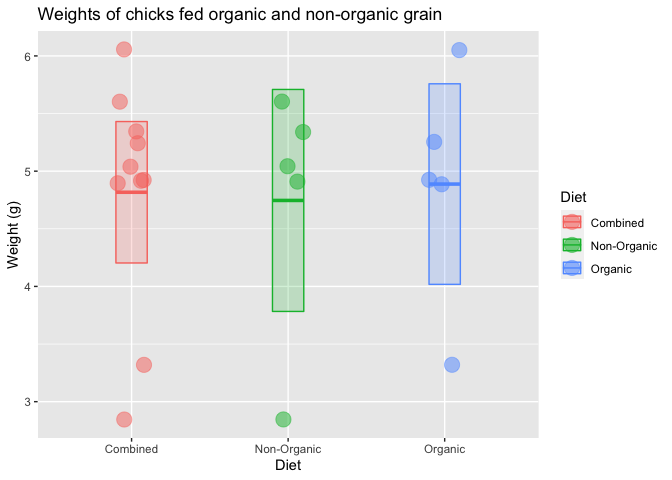
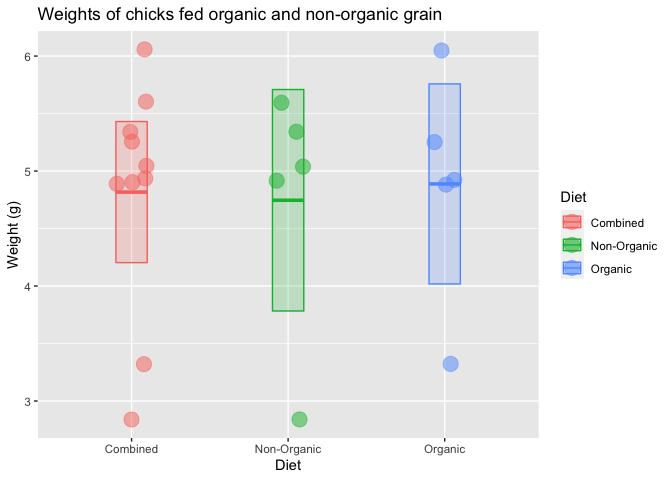
Update

diff --git a/README.md b/README.md
@@ -1,7 +1,7 @@
 Lab 2: Introduction to RStudio
 ================
 Jonathan Kanyinda
-2021-01-19
+2021-01-21
 
 > INSTRUCTIONS: REMOVE THIS LINE AND REPLACE \_\_\_\_ WITH YOUR OWN TEXT
 
@@ -21,7 +21,7 @@ The objectives of this lab are:
 The repository contains the following scripts:
 
   - [calculator.R](calculator.R)
-  - [calculator.Rmd](calculator.Rmd)
+  - [Lab 2 Report](assignmentmd)
 
 ## Instructions for knitting
 
@@ -44,126 +44,3 @@ Here is a list of resources for helping you write R Markdown documents:
     Reference**
   - [Basic Syntax](https://www.markdownguide.org/basic-syntax/) on the
     Markdown Guide website
-
-## Session Info
-
-Here is my session
-    information:
-
-``` r
-sessioninfo::session_info(c("tidyverse"))
-```
-
-    ## ─ Session info ───────────────────────────────────────────────────────────────
-    ##  setting  value                       
-    ##  version  R version 4.0.3 (2020-10-10)
-    ##  os       macOS Catalina 10.15.4      
-    ##  system   x86_64, darwin17.0          
-    ##  ui       X11                         
-    ##  language (EN)                        
-    ##  collate  en_US.UTF-8                 
-    ##  ctype    en_US.UTF-8                 
-    ##  tz       America/Chicago             
-    ##  date     2021-01-19                  
-    ## 
-    ## ─ Packages ───────────────────────────────────────────────────────────────────
-    ##  package      * version  date       lib source        
-    ##  askpass        1.1      2019-01-13 [1] CRAN (R 4.0.2)
-    ##  assertthat     0.2.1    2019-03-21 [1] CRAN (R 4.0.2)
-    ##  backports      1.2.1    2020-12-09 [1] CRAN (R 4.0.2)
-    ##  base64enc      0.1-3    2015-07-28 [1] CRAN (R 4.0.2)
-    ##  BH             1.75.0-0 2021-01-11 [1] CRAN (R 4.0.2)
-    ##  blob           1.2.1    2020-01-20 [1] CRAN (R 4.0.2)
-    ##  brio           1.1.0    2020-08-31 [1] CRAN (R 4.0.2)
-    ##  broom          0.7.3    2020-12-16 [1] CRAN (R 4.0.2)
-    ##  callr          3.5.1    2020-10-13 [1] CRAN (R 4.0.2)
-    ##  cellranger     1.1.0    2016-07-27 [1] CRAN (R 4.0.2)
-    ##  cli            2.2.0    2020-11-20 [1] CRAN (R 4.0.2)
-    ##  clipr          0.7.1    2020-10-08 [1] CRAN (R 4.0.2)
-    ##  colorspace     2.0-0    2020-11-11 [1] CRAN (R 4.0.2)
-    ##  cpp11          0.2.5    2021-01-12 [1] CRAN (R 4.0.2)
-    ##  crayon         1.3.4    2017-09-16 [1] CRAN (R 4.0.2)
-    ##  curl           4.3      2019-12-02 [1] CRAN (R 4.0.1)
-    ##  DBI            1.1.1    2021-01-15 [1] CRAN (R 4.0.3)
-    ##  dbplyr         2.0.0    2020-11-03 [1] CRAN (R 4.0.2)
-    ##  desc           1.2.0    2018-05-01 [1] CRAN (R 4.0.2)
-    ##  diffobj        0.3.3    2021-01-07 [1] CRAN (R 4.0.2)
-    ##  digest         0.6.27   2020-10-24 [1] CRAN (R 4.0.2)
-    ##  dplyr          1.0.2    2020-08-18 [1] CRAN (R 4.0.2)
-    ##  ellipsis       0.3.1    2020-05-15 [1] CRAN (R 4.0.2)
-    ##  evaluate       0.14     2019-05-28 [1] CRAN (R 4.0.1)
-    ##  fansi          0.4.1    2020-01-08 [1] CRAN (R 4.0.2)
-    ##  farver         2.0.3    2020-01-16 [1] CRAN (R 4.0.2)
-    ##  forcats        0.5.0    2020-03-01 [1] CRAN (R 4.0.2)
-    ##  fs             1.5.0    2020-07-31 [1] CRAN (R 4.0.2)
-    ##  generics       0.1.0    2020-10-31 [1] CRAN (R 4.0.2)
-    ##  ggplot2        3.3.3    2020-12-30 [1] CRAN (R 4.0.2)
-    ##  glue           1.4.2    2020-08-27 [1] CRAN (R 4.0.2)
-    ##  gtable         0.3.0    2019-03-25 [1] CRAN (R 4.0.2)
-    ##  haven          2.3.1    2020-06-01 [1] CRAN (R 4.0.2)
-    ##  highr          0.8      2019-03-20 [1] CRAN (R 4.0.2)
-    ##  hms            1.0.0    2021-01-13 [1] CRAN (R 4.0.2)
-    ##  htmltools      0.5.1    2021-01-12 [1] CRAN (R 4.0.2)
-    ##  httr           1.4.2    2020-07-20 [1] CRAN (R 4.0.2)
-    ##  isoband        0.2.3    2020-12-01 [1] CRAN (R 4.0.2)
-    ##  jsonlite       1.7.2    2020-12-09 [1] CRAN (R 4.0.2)
-    ##  knitr          1.30     2020-09-22 [1] CRAN (R 4.0.2)
-    ##  labeling       0.4.2    2020-10-20 [1] CRAN (R 4.0.2)
-    ##  lattice        0.20-41  2020-04-02 [1] CRAN (R 4.0.3)
-    ##  lifecycle      0.2.0    2020-03-06 [1] CRAN (R 4.0.2)
-    ##  lubridate      1.7.9.2  2020-11-13 [1] CRAN (R 4.0.2)
-    ##  magrittr       2.0.1    2020-11-17 [1] CRAN (R 4.0.2)
-    ##  markdown       1.1      2019-08-07 [1] CRAN (R 4.0.2)
-    ##  MASS           7.3-53   2020-09-09 [1] CRAN (R 4.0.3)
-    ##  Matrix         1.2-18   2019-11-27 [1] CRAN (R 4.0.3)
-    ##  mgcv           1.8-33   2020-08-27 [1] CRAN (R 4.0.3)
-    ##  mime           0.9      2020-02-04 [1] CRAN (R 4.0.2)
-    ##  modelr         0.1.8    2020-05-19 [1] CRAN (R 4.0.2)
-    ##  munsell        0.5.0    2018-06-12 [1] CRAN (R 4.0.2)
-    ##  nlme           3.1-149  2020-08-23 [1] CRAN (R 4.0.3)
-    ##  openssl        1.4.3    2020-09-18 [1] CRAN (R 4.0.2)
-    ##  pillar         1.4.7    2020-11-20 [1] CRAN (R 4.0.2)
-    ##  pkgbuild       1.2.0    2020-12-15 [1] CRAN (R 4.0.2)
-    ##  pkgconfig      2.0.3    2019-09-22 [1] CRAN (R 4.0.2)
-    ##  pkgload        1.1.0    2020-05-29 [1] CRAN (R 4.0.2)
-    ##  praise         1.0.0    2015-08-11 [1] CRAN (R 4.0.2)
-    ##  prettyunits    1.1.1    2020-01-24 [1] CRAN (R 4.0.2)
-    ##  processx       3.4.5    2020-11-30 [1] CRAN (R 4.0.2)
-    ##  progress       1.2.2    2019-05-16 [1] CRAN (R 4.0.2)
-    ##  ps             1.5.0    2020-12-05 [1] CRAN (R 4.0.2)
-    ##  purrr          0.3.4    2020-04-17 [1] CRAN (R 4.0.2)
-    ##  R6             2.5.0    2020-10-28 [1] CRAN (R 4.0.2)
-    ##  RColorBrewer   1.1-2    2014-12-07 [1] CRAN (R 4.0.2)
-    ##  Rcpp           1.0.5    2020-07-06 [1] CRAN (R 4.0.2)
-    ##  readr          1.4.0    2020-10-05 [1] CRAN (R 4.0.2)
-    ##  readxl         1.3.1    2019-03-13 [1] CRAN (R 4.0.2)
-    ##  rematch        1.0.1    2016-04-21 [1] CRAN (R 4.0.2)
-    ##  rematch2       2.1.2    2020-05-01 [1] CRAN (R 4.0.2)
-    ##  reprex         0.3.0    2019-05-16 [1] CRAN (R 4.0.2)
-    ##  rlang          0.4.10   2020-12-30 [1] CRAN (R 4.0.2)
-    ##  rmarkdown      2.6      2020-12-14 [1] CRAN (R 4.0.2)
-    ##  rprojroot      2.0.2    2020-11-15 [1] CRAN (R 4.0.2)
-    ##  rstudioapi     0.13     2020-11-12 [1] CRAN (R 4.0.2)
-    ##  rvest          0.3.6    2020-07-25 [1] CRAN (R 4.0.2)
-    ##  scales         1.1.1    2020-05-11 [1] CRAN (R 4.0.2)
-    ##  selectr        0.4-2    2019-11-20 [1] CRAN (R 4.0.2)
-    ##  stringi        1.5.3    2020-09-09 [1] CRAN (R 4.0.2)
-    ##  stringr        1.4.0    2019-02-10 [1] CRAN (R 4.0.2)
-    ##  sys            3.4      2020-07-23 [1] CRAN (R 4.0.2)
-    ##  testthat       3.0.1    2020-12-17 [1] CRAN (R 4.0.2)
-    ##  tibble         3.0.4    2020-10-12 [1] CRAN (R 4.0.2)
-    ##  tidyr          1.1.2    2020-08-27 [1] CRAN (R 4.0.2)
-    ##  tidyselect     1.1.0    2020-05-11 [1] CRAN (R 4.0.2)
-    ##  tidyverse      1.3.0    2019-11-21 [1] CRAN (R 4.0.2)
-    ##  tinytex        0.28     2020-12-14 [1] CRAN (R 4.0.2)
-    ##  utf8           1.1.4    2018-05-24 [1] CRAN (R 4.0.2)
-    ##  vctrs          0.3.6    2020-12-17 [1] CRAN (R 4.0.2)
-    ##  viridisLite    0.3.0    2018-02-01 [1] CRAN (R 4.0.1)
-    ##  waldo          0.2.3    2020-11-09 [1] CRAN (R 4.0.2)
-    ##  whisker        0.4      2019-08-28 [1] CRAN (R 4.0.2)
-    ##  withr          2.4.0    2021-01-16 [1] CRAN (R 4.0.3)
-    ##  xfun           0.20     2021-01-06 [1] CRAN (R 4.0.2)
-    ##  xml2           1.3.2    2020-04-23 [1] CRAN (R 4.0.2)
-    ##  yaml           2.2.1    2020-02-01 [1] CRAN (R 4.0.2)
-    ## 
-    ## [1] /Library/Frameworks/R.framework/Versions/4.0/Resources/library

diff --git a/assignment.md b/assignment.md
@@ -1,7 +1,7 @@
 Lab 2 Assignment
 ================
 Jonathan Kanyinda
-2021-01-19
+2021-01-21
 
 ## Instructions
 
@@ -59,7 +59,7 @@ sem <- sd(k) / sqrt(n)
 ```
 
 And finally, I can see the 95% confidence interval ranges from a minimum
-of — to a maximum of \_\_\_
+of 4.203409 to a maximum of 5.430591
 
 ``` r
 mean(k) + 1.96 * sem 
@@ -108,16 +108,11 @@ library(tidyverse)
     ## x dplyr::lag()    masks stats::lag()
 
 ``` r
-# check to make sure you did the part above correctly
-# if not, generate some fake x data
-x<-k
-if (!exists("x") | !is.numeric(x) | !length(x) == 10) x <- rep(1, 10)
-
 # put the chick data into a data frame
 chick_data <-
   tibble::tibble(
     diet = rep(c("Combined", "Combined", "Organic", "Non-Organic"), each = 5),
-    weight = c(x, x)
+    weight = c(k, k)
   )
 
 # summarize the chick weights by diet
@@ -153,3 +148,87 @@ ggplot(chick_data, aes(x = diet, y = weight, color = diet, fill = diet)) +
 ```
 
 ![](assignment_files/figure-gfm/unnamed-chunk-1-1.png)<!-- -->
+
+## Session Info
+
+Here is my session
+    information:
+
+``` r
+sessioninfo::session_info()
+```
+
+    ## ─ Session info ───────────────────────────────────────────────────────────────
+    ##  setting  value                       
+    ##  version  R version 4.0.3 (2020-10-10)
+    ##  os       macOS Catalina 10.15.4      
+    ##  system   x86_64, darwin17.0          
+    ##  ui       X11                         
+    ##  language (EN)                        
+    ##  collate  en_US.UTF-8                 
+    ##  ctype    en_US.UTF-8                 
+    ##  tz       America/Chicago             
+    ##  date     2021-01-21                  
+    ## 
+    ## ─ Packages ───────────────────────────────────────────────────────────────────
+    ##  package     * version date       lib source        
+    ##  assertthat    0.2.1   2019-03-21 [1] CRAN (R 4.0.2)
+    ##  backports     1.2.1   2020-12-09 [1] CRAN (R 4.0.2)
+    ##  broom         0.7.3   2020-12-16 [1] CRAN (R 4.0.2)
+    ##  cellranger    1.1.0   2016-07-27 [1] CRAN (R 4.0.2)
+    ##  cli           2.2.0   2020-11-20 [1] CRAN (R 4.0.2)
+    ##  colorspace    2.0-0   2020-11-11 [1] CRAN (R 4.0.2)
+    ##  crayon        1.3.4   2017-09-16 [1] CRAN (R 4.0.2)
+    ##  DBI           1.1.1   2021-01-15 [1] CRAN (R 4.0.3)
+    ##  dbplyr        2.0.0   2020-11-03 [1] CRAN (R 4.0.2)
+    ##  digest        0.6.27  2020-10-24 [1] CRAN (R 4.0.2)
+    ##  dplyr       * 1.0.2   2020-08-18 [1] CRAN (R 4.0.2)
+    ##  ellipsis      0.3.1   2020-05-15 [1] CRAN (R 4.0.2)
+    ##  evaluate      0.14    2019-05-28 [1] CRAN (R 4.0.1)
+    ##  fansi         0.4.1   2020-01-08 [1] CRAN (R 4.0.2)
+    ##  farver        2.0.3   2020-01-16 [1] CRAN (R 4.0.2)
+    ##  forcats     * 0.5.0   2020-03-01 [1] CRAN (R 4.0.2)
+    ##  fs            1.5.0   2020-07-31 [1] CRAN (R 4.0.2)
+    ##  generics      0.1.0   2020-10-31 [1] CRAN (R 4.0.2)
+    ##  ggplot2     * 3.3.3   2020-12-30 [1] CRAN (R 4.0.2)
+    ##  glue          1.4.2   2020-08-27 [1] CRAN (R 4.0.2)
+    ##  gtable        0.3.0   2019-03-25 [1] CRAN (R 4.0.2)
+    ##  haven         2.3.1   2020-06-01 [1] CRAN (R 4.0.2)
+    ##  hms           1.0.0   2021-01-13 [1] CRAN (R 4.0.2)
+    ##  htmltools     0.5.1   2021-01-12 [1] CRAN (R 4.0.2)
+    ##  httr          1.4.2   2020-07-20 [1] CRAN (R 4.0.2)
+    ##  jsonlite      1.7.2   2020-12-09 [1] CRAN (R 4.0.2)
+    ##  knitr         1.30    2020-09-22 [1] CRAN (R 4.0.2)
+    ##  labeling      0.4.2   2020-10-20 [1] CRAN (R 4.0.2)
+    ##  lifecycle     0.2.0   2020-03-06 [1] CRAN (R 4.0.2)
+    ##  lubridate     1.7.9.2 2020-11-13 [1] CRAN (R 4.0.2)
+    ##  magrittr      2.0.1   2020-11-17 [1] CRAN (R 4.0.2)
+    ##  modelr        0.1.8   2020-05-19 [1] CRAN (R 4.0.2)
+    ##  munsell       0.5.0   2018-06-12 [1] CRAN (R 4.0.2)
+    ##  pillar        1.4.7   2020-11-20 [1] CRAN (R 4.0.2)
+    ##  pkgconfig     2.0.3   2019-09-22 [1] CRAN (R 4.0.2)
+    ##  purrr       * 0.3.4   2020-04-17 [1] CRAN (R 4.0.2)
+    ##  R6            2.5.0   2020-10-28 [1] CRAN (R 4.0.2)
+    ##  Rcpp          1.0.5   2020-07-06 [1] CRAN (R 4.0.2)
+    ##  readr       * 1.4.0   2020-10-05 [1] CRAN (R 4.0.2)
+    ##  readxl        1.3.1   2019-03-13 [1] CRAN (R 4.0.2)
+    ##  reprex        0.3.0   2019-05-16 [1] CRAN (R 4.0.2)
+    ##  rlang         0.4.10  2020-12-30 [1] CRAN (R 4.0.2)
+    ##  rmarkdown     2.6     2020-12-14 [1] CRAN (R 4.0.2)
+    ##  rstudioapi    0.13    2020-11-12 [1] CRAN (R 4.0.2)
+    ##  rvest         0.3.6   2020-07-25 [1] CRAN (R 4.0.2)
+    ##  scales        1.1.1   2020-05-11 [1] CRAN (R 4.0.2)
+    ##  sessioninfo   1.1.1   2018-11-05 [1] CRAN (R 4.0.2)
+    ##  stringi       1.5.3   2020-09-09 [1] CRAN (R 4.0.2)
+    ##  stringr     * 1.4.0   2019-02-10 [1] CRAN (R 4.0.2)
+    ##  tibble      * 3.0.4   2020-10-12 [1] CRAN (R 4.0.2)
+    ##  tidyr       * 1.1.2   2020-08-27 [1] CRAN (R 4.0.2)
+    ##  tidyselect    1.1.0   2020-05-11 [1] CRAN (R 4.0.2)
+    ##  tidyverse   * 1.3.0   2019-11-21 [1] CRAN (R 4.0.2)
+    ##  vctrs         0.3.6   2020-12-17 [1] CRAN (R 4.0.2)
+    ##  withr         2.4.0   2021-01-16 [1] CRAN (R 4.0.3)
+    ##  xfun          0.20    2021-01-06 [1] CRAN (R 4.0.2)
+    ##  xml2          1.3.2   2020-04-23 [1] CRAN (R 4.0.2)
+    ##  yaml          2.2.1   2020-02-01 [1] CRAN (R 4.0.2)
+    ## 
+    ## [1] /Library/Frameworks/R.framework/Versions/4.0/Resources/library
